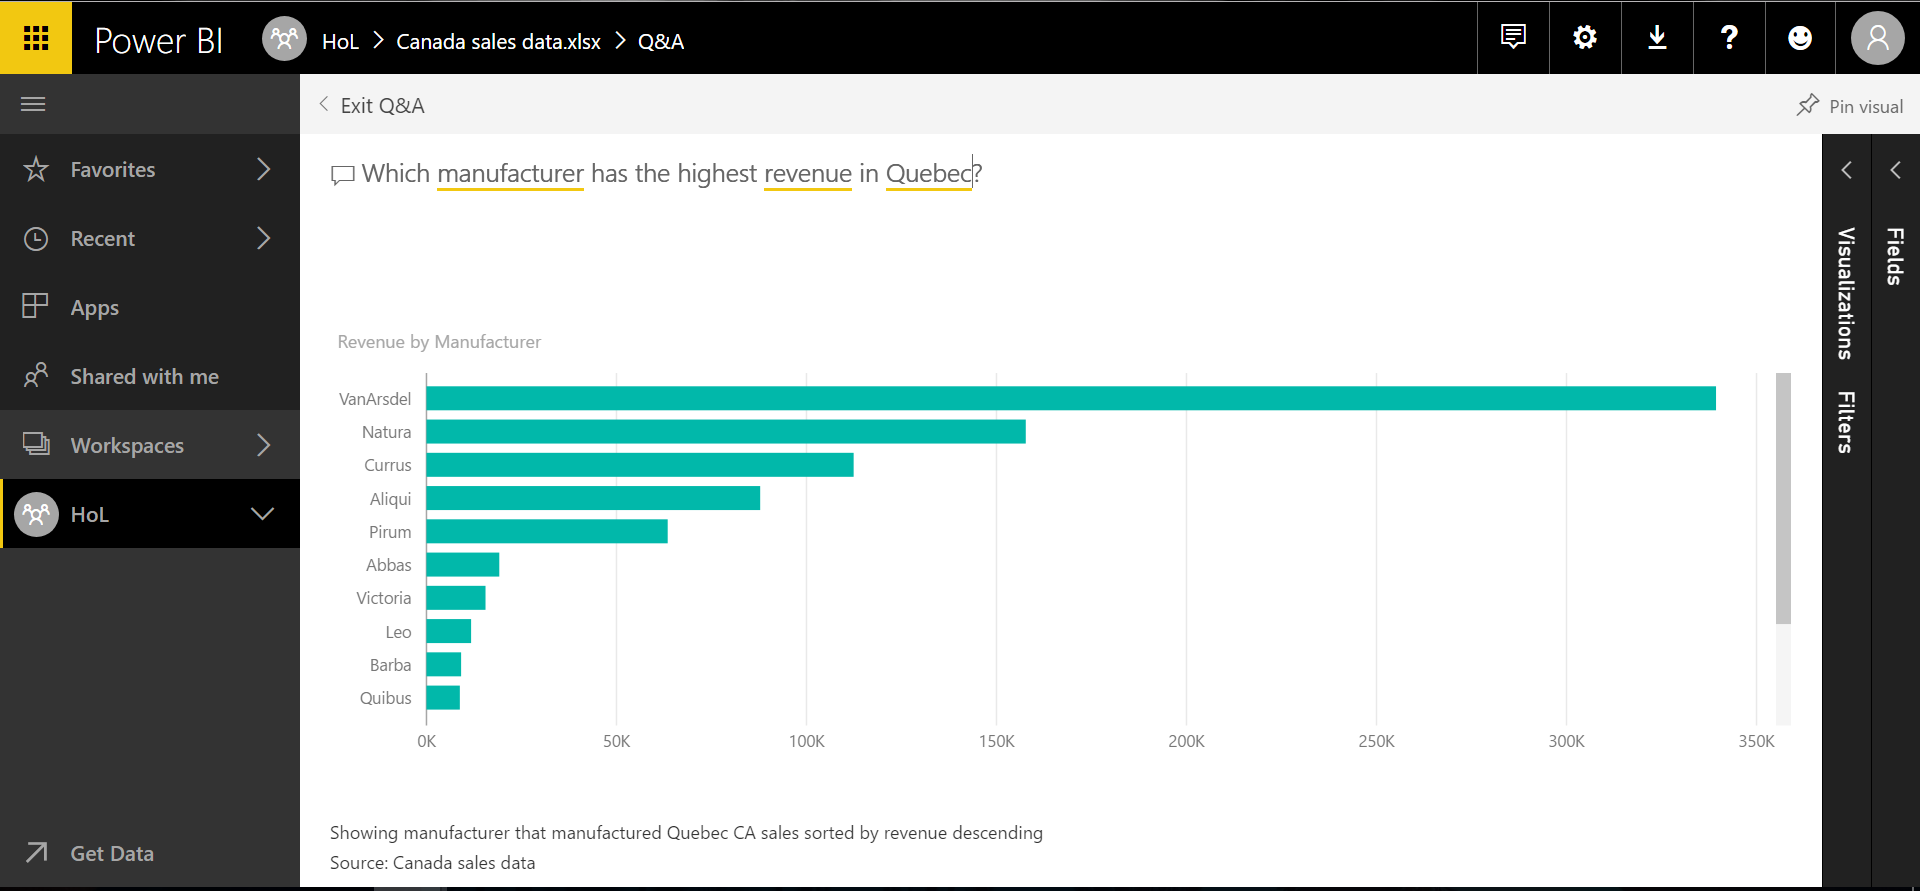
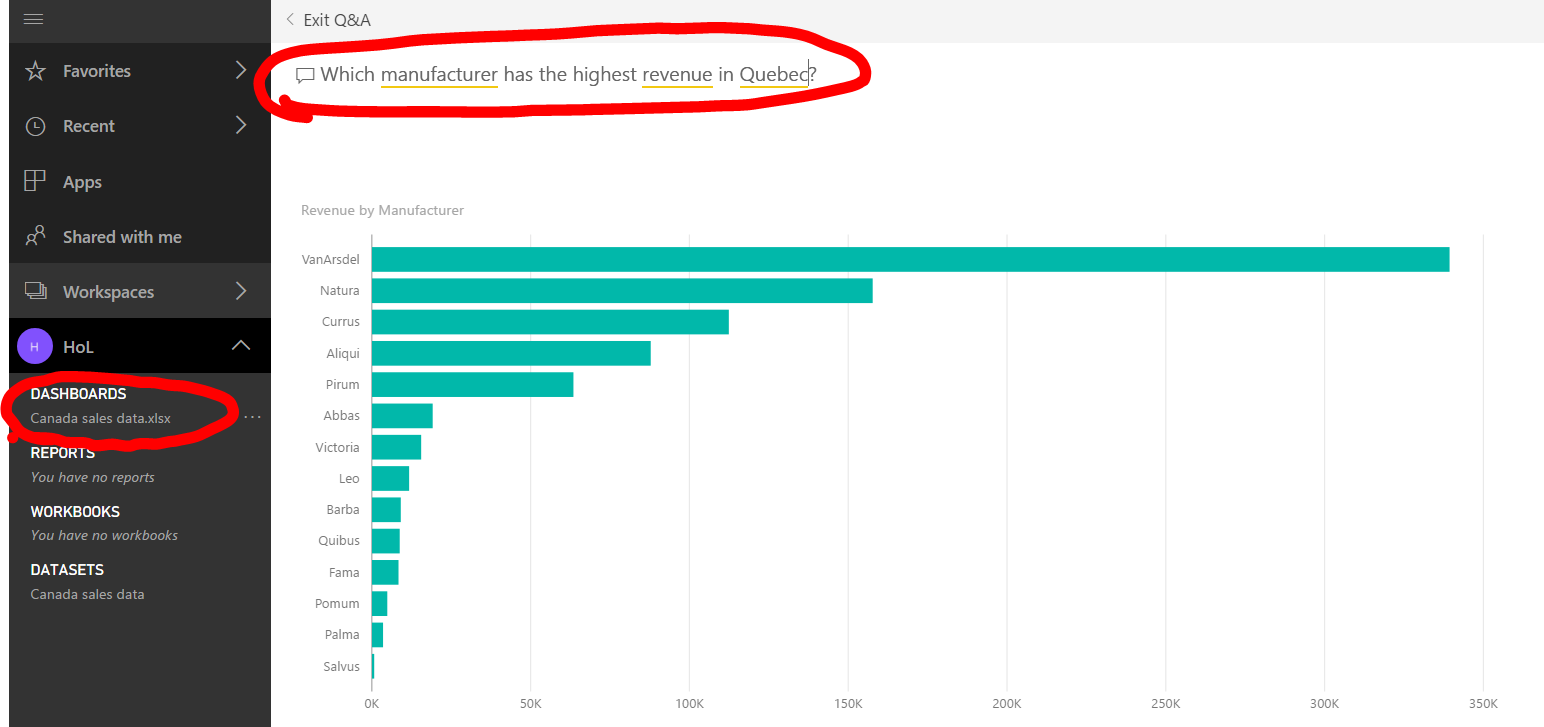
Prerequisites

diff --git a/Module 0 - Exploring the portal/README.md b/Module 0 - Exploring the portal/README.md
@@ -3,7 +3,7 @@
 
 ## The Dashboard
 
-The main features are:
+Once we have signed in, we need to familiarize with the controls of the portal. Expand the left-hand side menu by clicking in the three strips button, below 6 (see the next figure). These are main features:
 
 1) Left-hand side menu
 2) Icons pane
@@ -45,9 +45,9 @@ And finally add the members of your team. Right after that, a new workshop appea
 Invited members of this workshop will receive an e-mail with a link to the new workshop.
 
 ### Datasets
-Here are the data that you can import to the Power BI Service or connect from other sources. You can [import data from many sources](https://powerbi.microsoft.com/en-us/documentation/powerbi-service-get-data/).
+Here are the data that you can import to the Power BI Service or connect from other sources. If you want to learn more about other ways of importing data to Power BI, go [here](https://powerbi.microsoft.com/en-us/documentation/powerbi-service-get-data/).
 
-So now we are going to import a Dataset. Click the button "Get Data", select Files, and click again in Local File.
+So now we are going to import a Dataset. Click the button *Get Data*.
 
 ![](/Module%200%20-%20Exploring%20the%20portal/Images/getData.png)
 
@@ -79,7 +79,7 @@ A dashboard can be filled with tiles from different reports. We will see in Modu
 
 
 ### Quick Insights
-Before beginning with a new report, we need to know what the HoL is about, and the best way to do that is taking a look to the dataset. Please open the Excel and see the type of columns that we have.
+Before beginning with a new report, we need to know what the HoL is about, and the best way to do that is taking a look to the dataset. Please open the Excel file and see the type of columns that we have.
 
 We can also see some graphs or statistics with a few clicks. From the left-side bar, go to the *Workspace* - *DATASETS*, and click in the three dots next to the dataset name. A new blade will appear. Select *VIEW INSIGHTS*. Wait a few seconds and you'll see some interesting graphs that Power BI make for you.
 
@@ -91,6 +91,10 @@ Ok, so in this dataset we can see statistics about sales of products, sold in Ca
 
 ### Q&A question box.
 If you click in the dashboard you've just created importing the dataset, you can make queries in natural language, for example, you can ask:
+> Which manufactuer has the highest revenue in Quebec?
+
+
+Play with it and ask new questions!
 
 ![](/Module%200%20-%20Exploring%20the%20portal/Images/QandA.PNG)
 
